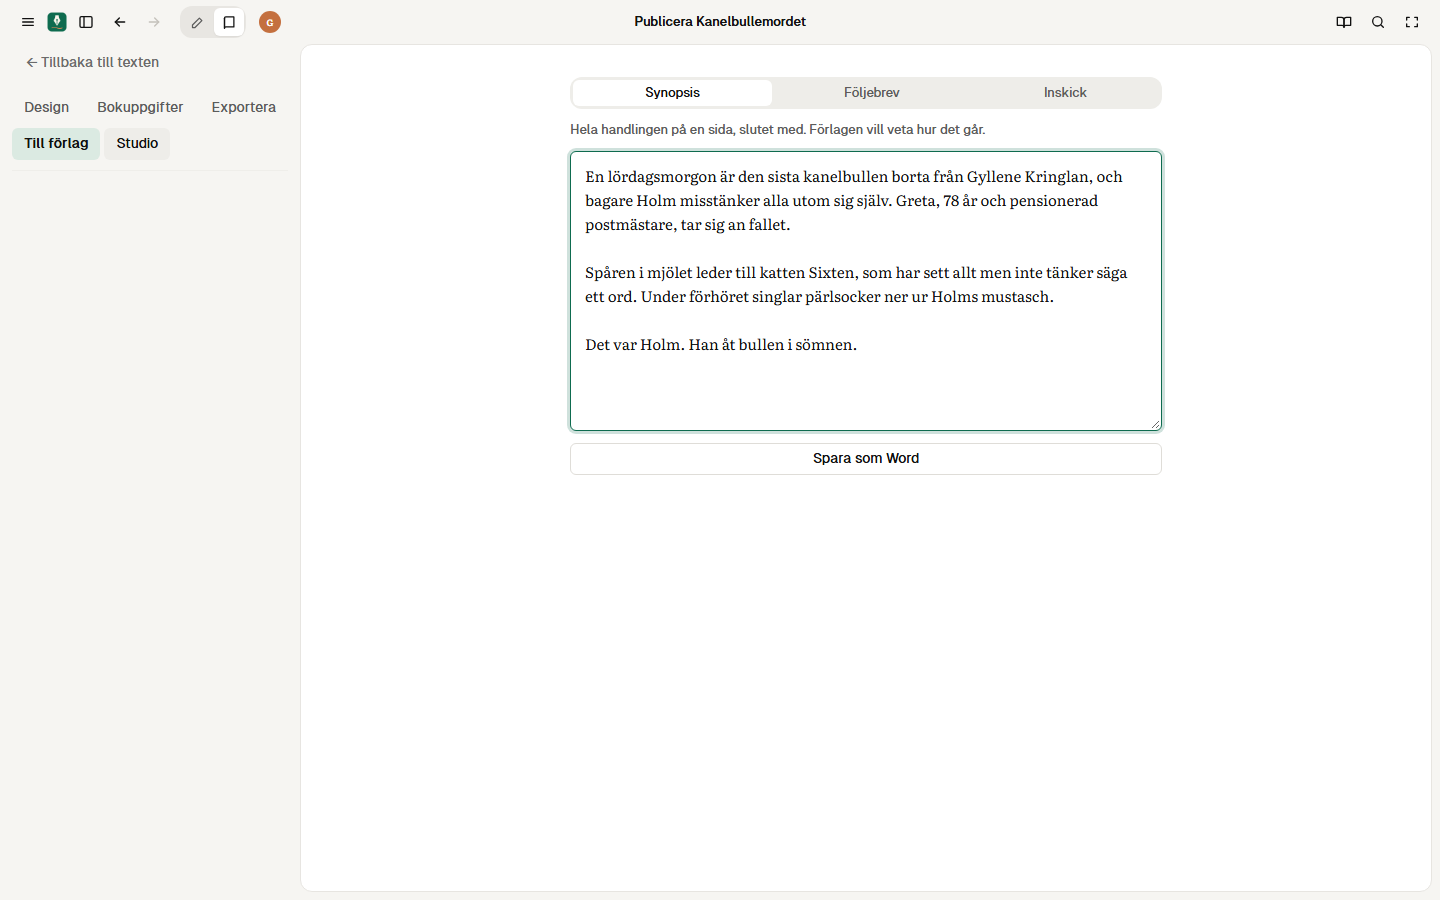
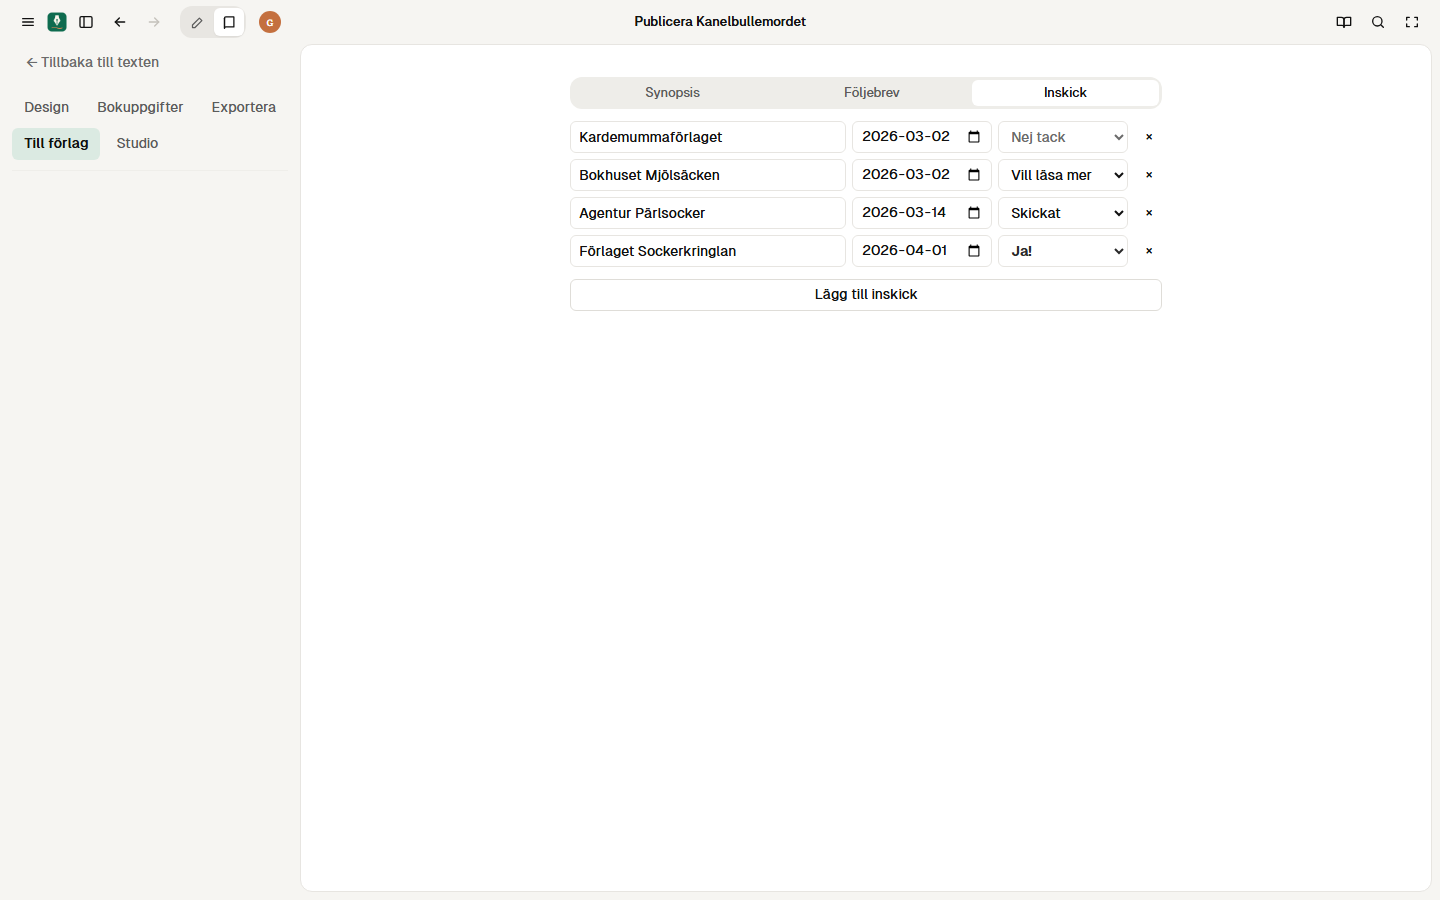
!U Webbsida: en riktig bok och riktiga inskick
* Publicera visar Kanelbullemordet med ett eget omslag, som en färdig bok
* Till förlag visar fyra inskick och vad förlagen svarade, med svenska datum
* Utsnittet för Till förlag börjar överst, där innehållet sitter
* Studiobildernas signatur säger Skriven i Skrivro

#REL 0.4.7

diff --git a/site/index.html b/site/index.html
@@ -213,7 +213,7 @@
               src="bilder/forlag.png"
               width="1440"
               height="900"
-              alt="Till förlag, med en synopsis på en sida"
+              alt="Till förlag, med inskicken och vad förlagen svarade"
             />
           </div>
         </section>
@@ -236,7 +236,7 @@
               src="bilder/publicera.png"
               width="1440"
               height="900"
-              alt="Publicera, med förhandsvisning av bokens första sidor"
+              alt="Publicera, med bokens omslag i förhandsvisningen"
             />
           </div>
         </section>

diff --git a/site/en.html b/site/en.html
@@ -210,7 +210,7 @@
               src="bilder/forlag.png"
               width="1440"
               height="900"
-              alt="To publishers, with a one-page synopsis"
+              alt="To publishers, with the submissions and what came back"
             />
           </div>
         </section>
@@ -233,7 +233,7 @@
               src="bilder/publicera.png"
               width="1440"
               height="900"
-              alt="Publish, with a preview of the book’s first pages"
+              alt="Publish, with the book’s cover in the preview"
             />
           </div>
         </section>

diff --git a/scripts/store/showcaseBook.ts b/scripts/store/showcaseBook.ts
@@ -153,6 +153,18 @@ const PROJECT = {
   type: "roman",
   genre: "Mysdeckare",
   dailyGoal: 500,
+  submissions: [
+    ["Kardemummaförlaget", "2026-03-02", "nej"],
+    ["Bokhuset Mjölsäcken", "2026-03-02", "mer"],
+    ["Agentur Pärlsocker", "2026-03-14", "skickat"],
+    ["Förlaget Sockerkringlan", "2026-04-01", "ja"],
+  ].map(([to, sent, status], row) => ({
+    id: `01JA0SKRVRBK000000000000S${row + 1}`,
+    to,
+    sent,
+    status,
+    note: "",
+  })),
   connections: {
     [IDS.greta]: [
       { id: IDS.holm, role: "granne" },

diff --git a/src/app/studio/studioCanvas.ts b/src/app/studio/studioCanvas.ts
@@ -122,7 +122,7 @@ export function startCard(canvas: HTMLCanvasElement, look: Look, format: CardFor
 export const penMark = (card: Card) =>
   text(
     card,
-    "SKRIVEN I PENNA",
+    "SKRIVEN I SKRIVRO",
     { x: 484, y: card.height - 12 },
     {
       size: 9,

diff --git a/site/style.css b/site/style.css
@@ -398,7 +398,7 @@ h2 {
 }
 
 .frame.middle img {
-  top: -90px;
+  top: 32px;
   left: 50%;
   transform: translateX(-50%);
 }
